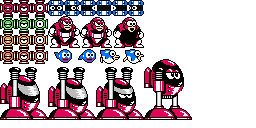
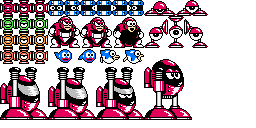
Added Peterchy enemy

Changed region(s): [[0.5625, 0.0, 0.8125, 0.375]]

diff --git a/engine/src/hikari/client/game/GamePlayState.cpp b/engine/src/hikari/client/game/GamePlayState.cpp
@@ -855,7 +855,7 @@ namespace hikari {
 
         auto& camera = gamePlayState.camera;
         auto& view = camera.getView();
-        auto enemy = gamePlayState.world.spawnEnemy("Bikky");
+        auto enemy = gamePlayState.world.spawnEnemy("Peterchy");
 
         if(enemy) {
             enemy->setActive(true);
